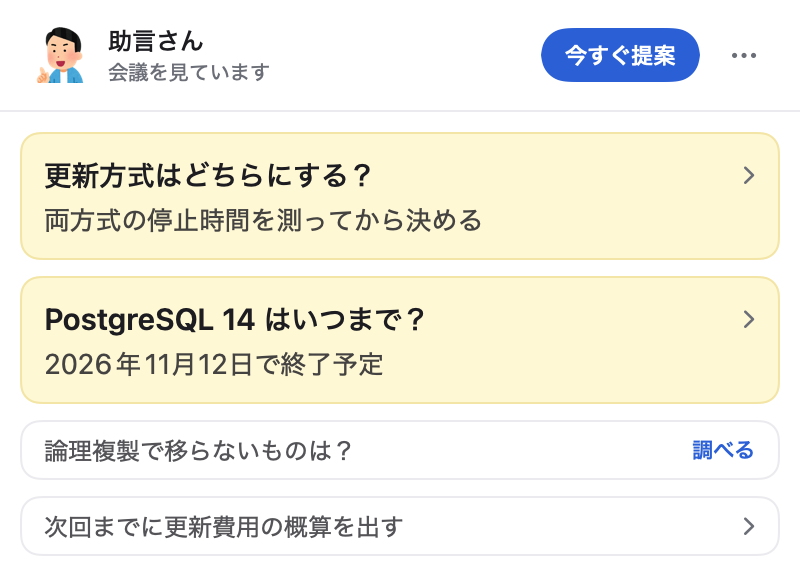
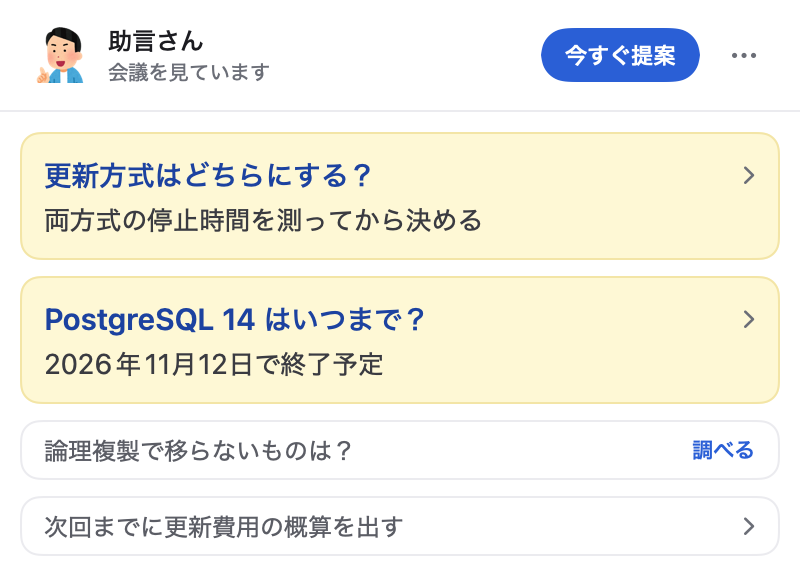
質問を濃い青にして答えと補足の色に段差を付ける

Changed region(s): [[0.0312, 0.5312, 0.5312, 0.5938], [0.0625, 0.2812, 0.4688, 0.3438]]

diff --git a/Sources/LiveAdvisor/AdvisorPanel.swift b/Sources/LiveAdvisor/AdvisorPanel.swift
@@ -6,6 +6,9 @@ private enum Palette {
     static let hairline = Color(red: 0.92, green: 0.92, blue: 0.94)
     static let soft = Color(red: 0.965, green: 0.97, blue: 0.98)
     static let accent = Color(red: 0.10, green: 0.36, blue: 0.87)
+    static let question = Color(red: 0.059, green: 0.247, blue: 0.651)
+    static let answer = Color(red: 0.227, green: 0.231, blue: 0.259)
+    static let quiet = Color(red: 0.357, green: 0.365, blue: 0.40)
     static let unread = Color(red: 1.0, green: 0.975, blue: 0.82)
     static let unreadEdge = Color(red: 0.96, green: 0.90, blue: 0.62)
 }
@@ -274,7 +277,7 @@ private struct FeedCard: View {
         HStack(spacing: 8) {
             Text(card.title)
                 .font(.system(size: 13))
-                .foregroundStyle(Palette.ink.opacity(0.75))
+                .foregroundStyle(Palette.quiet)
                 .lineLimit(1)
             Spacer(minLength: 0)
             if card.canRun {
@@ -299,12 +302,12 @@ private struct FeedCard: View {
             VStack(alignment: .leading, spacing: 4) {
                 Text(card.title)
                     .font(.system(size: 15, weight: .semibold))
-                    .foregroundStyle(Palette.ink)
+                    .foregroundStyle(Palette.question)
                     .fixedSize(horizontal: false, vertical: true)
                 if let answer {
                     Text(answer)
                         .font(.system(size: 14))
-                        .foregroundStyle(Palette.ink.opacity(0.82))
+                        .foregroundStyle(Palette.answer)
                         .lineSpacing(2)
                         .fixedSize(horizontal: false, vertical: true)
                 }
@@ -407,7 +410,7 @@ private struct BodyText: View {
     var body: some View {
         Text(text)
             .font(.system(size: 12.5))
-            .foregroundStyle(Palette.ink.opacity(0.82))
+            .foregroundStyle(Palette.quiet)
             .lineSpacing(2)
             .fixedSize(horizontal: false, vertical: true)
     }
